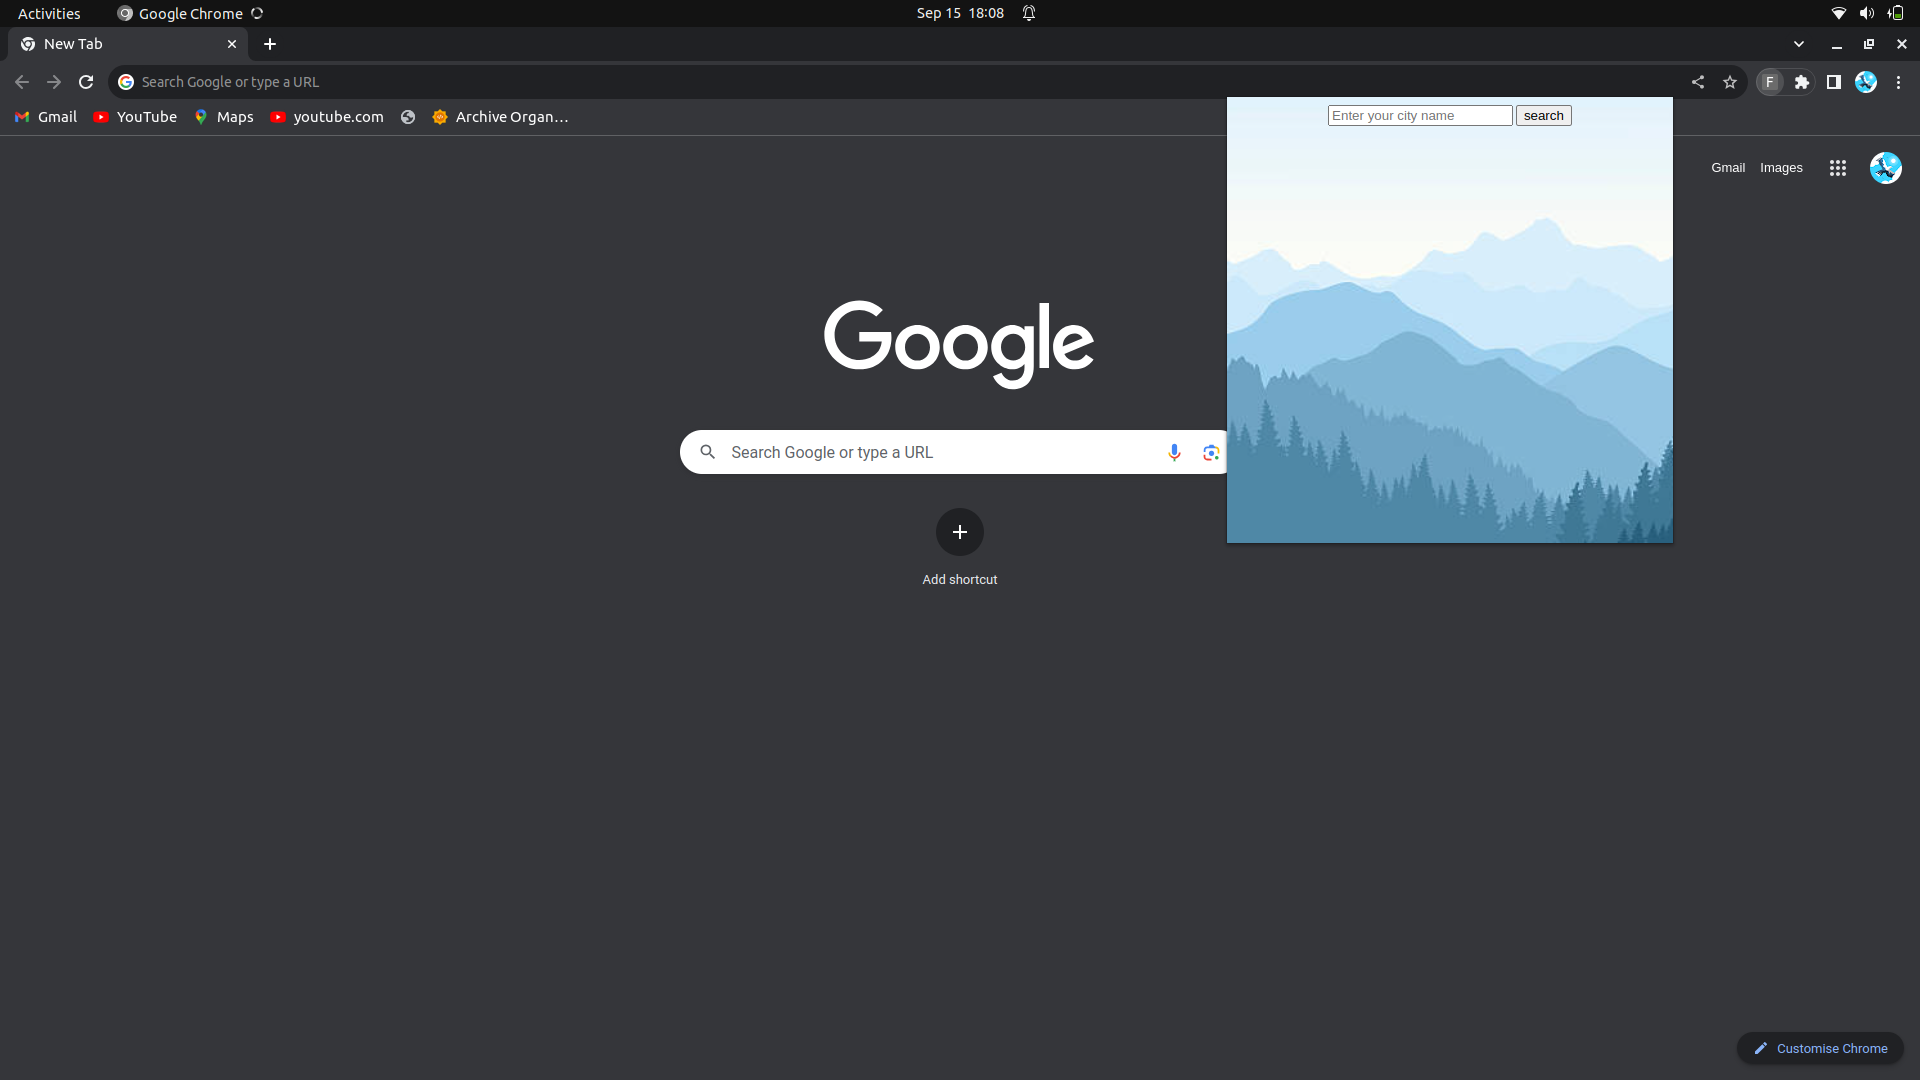
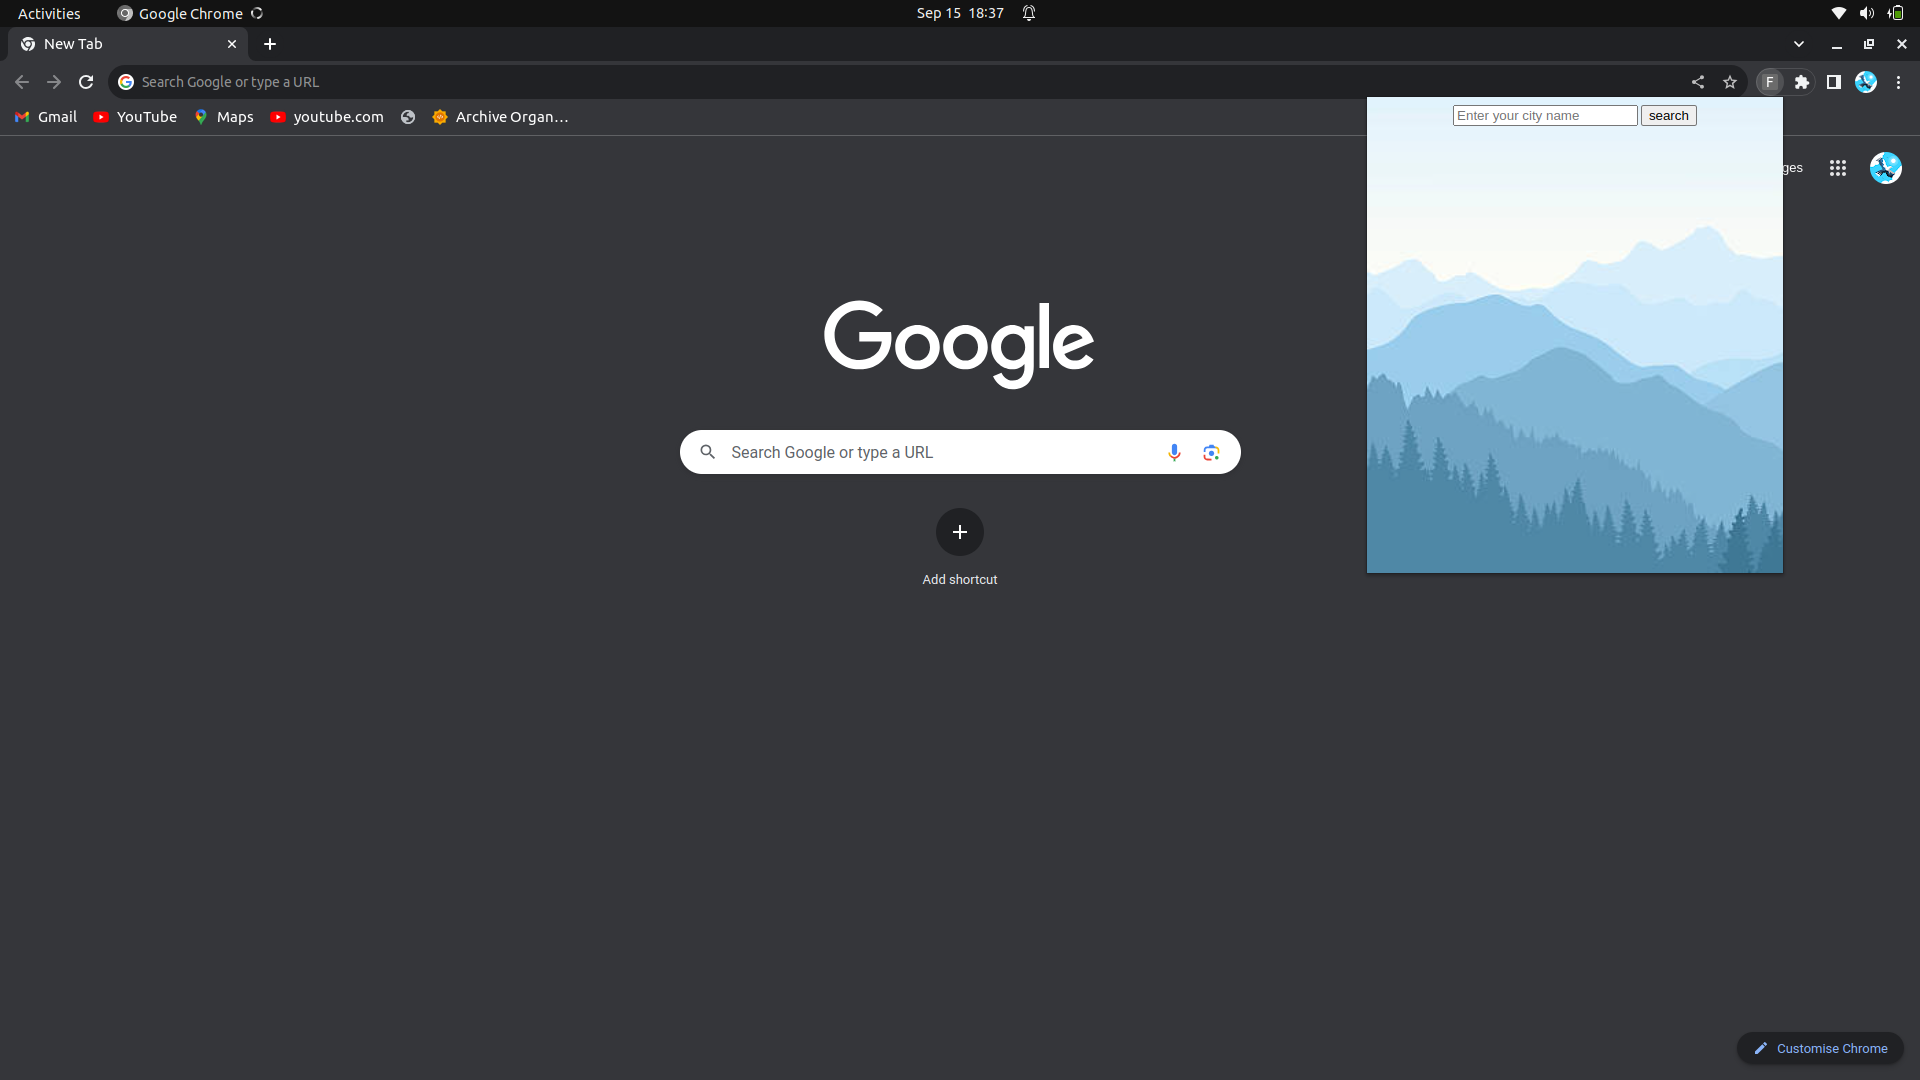
minor changes and updates

Changed region(s): [[0.625, 0.0917, 0.9375, 0.55]]

diff --git a/task_07/fetch.js b/task_07/fetch.js
@@ -22,11 +22,12 @@ p.then((response)=>{
     else {
         document.body.style.backgroundImage = "url(assests/mount.jpg)"
     }
-
     
+    let name = response[0].name
      let lat = response[0].lat
      let long = response[0].lon
-
+     document.getElementById("name").innerText = name
+    
     q = fetch(`https://api.openweathermap.org/data/2.5/weather?lat=${lat}&lon=${long}&appid=8a301729002ef55b2b877d24307dc509`)
     q.then((got) => {
         return got.json()
@@ -41,6 +42,7 @@ p.then((response)=>{
         console.log(got)
         let imageObjectUrl = `https://openweathermap.org/img/wn/${got.weather[0].icon}@2x.png`
         document.getElementById("show").src = imageObjectUrl
+        
 
         
     })

diff --git a/task_07/style.css b/task_07/style.css
@@ -1,16 +1,17 @@
 body {
-    width:430px;
-    height:430px;
+    width:400px;
+    height:460px;
     background-image: url(assests/mount.jpg);
     background-size: cover;
+    border-radius: 5px;
 }
 .container {
     text-align: center;
 }
 #tem {
-    margin-top: 20px;
+    margin-top: 10px;
     margin-bottom: 20px;
-    font-size: 120px;
+    font-size: 100px;
 }
 #desc {
     font-size: 30px;
@@ -21,4 +22,6 @@ body {
 }
 #feel { font-size: 25px;
 }
-
+#name {
+    font-size: 25px;
+}

diff --git a/task_07/popup.html b/task_07/popup.html
@@ -12,7 +12,7 @@
         <input type = "text" id = "city" placeholder="Enter your city name"> 
         <button id = "search" > search </button>
         <div  class = "temperature">
-            
+            <P id = "name"> </P>
             <p id = "tem"> </p>
             <p id = "feel"> </p>
 
